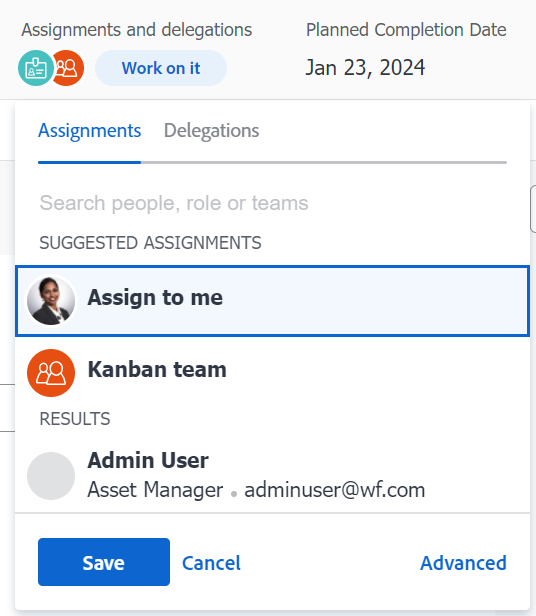
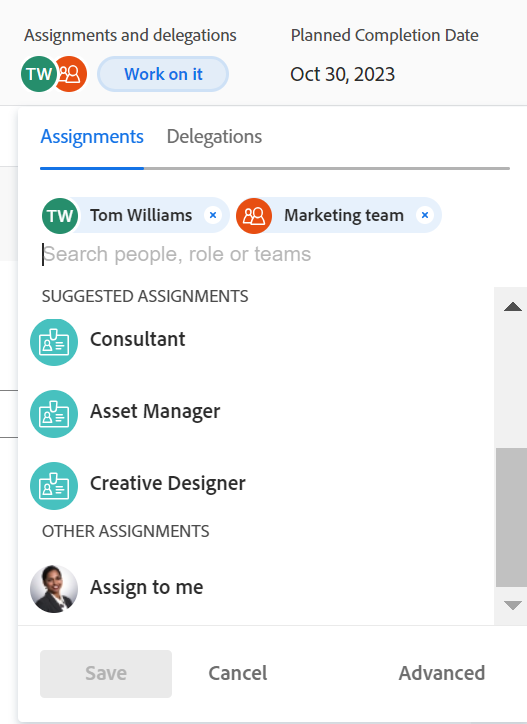
commit-aw-13-feb

diff --git a/help/quicksilver/manage-work/tasks/assign-tasks/make-smart-assignments.md b/help/quicksilver/manage-work/tasks/assign-tasks/make-smart-assignments.md
@@ -2,14 +2,14 @@
 product-area: projects;user-management
 navigation-topic: assign-tasks
 title: Make smart assignments
-description: You can use smart assignments to identify who the best user is to complete the work. Smart assignments are suggestions for users that Adobe Workfront presents to you when you assign work items to resources based on an algorithm that determines the most appropriate resource for the job. For information about smart assignments, see Smart assignments overview.
+description: You can use smart assignments to identify who the best user is to complete the work. Smart assignments are suggestions for users, roles, or teams that Adobe Workfront presents to you when you assign work items to resources based on an algorithm that determines the most appropriate resource for the job. For information about smart assignments, see Smart assignments overview.
 author: Alina
 feature: Work Management
 exl-id: 073a3234-3156-4b4f-a3e1-dbb32d61068a
 ---
 # Make smart assignments
 
-<!--update "Results" to "Other assignments" with Prod-->
+<!--Audited: 02/2024-->
 
 <span class="preview">The highlighted information on this page refers to functionality not yet generally available. It is available only in the Preview environment for all customers.</span>   
   
@@ -17,10 +17,11 @@ exl-id: 073a3234-3156-4b4f-a3e1-dbb32d61068a
 
 You can use smart assignments to identify who the best user is to complete the work. 
 
-Smart assignments are suggestions for users that Adobe Workfront presents to you when you assign work items to resources based on an algorithm that determines the most appropriate resource for the job.
+Smart assignments are suggestions for users, roles, or teams that Adobe Workfront presents to you when you assign work items to resources. Workfront bases its suggestions on an algorithm that determines the most appropriate resource for the job.
 
 <span class="preview">There are two separate algorithms in Workfront for tasks and issues. </span>
-For information about smart assignments, see [Smart assignments overview](../../../manage-work/tasks/assign-tasks/smart-assignments.md).
+
+For more information about the criteria used in determining smart assignments, see [Smart assignments overview](../../../manage-work/tasks/assign-tasks/smart-assignments.md).
 
 ## Access requirements
 
@@ -31,7 +32,7 @@ You must have the following access to perform the steps in this article:
  <col> 
  <tbody> 
   <tr> 
-   <td role="rowheader">Adobe Workfront plan*</td> 
+   <td role="rowheader">Adobe Workfront plan</td> 
    <td> <p>Any</p> </td> 
   </tr> 
   <tr> 
@@ -41,19 +42,17 @@ You must have the following access to perform the steps in this article:
       <p>Current: Work or higher</p> </td> 
   </tr> 
   <tr> 
-   <td role="rowheader">Access level configurations*</td> 
-   <td> <p>Edit access to Tasks and Issues</p> <p>View or higher access to&nbsp;Projects</p> <p><b>NOTE</b>
-   
-   If you still don't have access, ask your Workfront administrator if they set additional restrictions in your access level. For information on how a Workfront administrator can modify your access level, see <a href="../../../administration-and-setup/add-users/configure-and-grant-access/create-modify-access-levels.md" class="MCXref xref">Create or modify custom access levels</a>.</p> </td> 
+   <td role="rowheader">Access level configurations</td> 
+   <td> <p>Edit access to Tasks and Issues</p> <p>View or higher access to Projects</p>  </td> 
   </tr> 
   <tr> 
    <td role="rowheader">Object permissions</td> 
-   <td> <p>Contribute or higher permissions with the ability to make assignments on tasks and issues</p> <p>For information on requesting additional access, see <a href="../../../workfront-basics/grant-and-request-access-to-objects/request-access.md" class="MCXref xref">Request access to objects </a>.</p> </td> 
+   <td> <p>Contribute or higher permissions with the ability to make assignments on tasks and issues</p> </td> 
   </tr> 
  </tbody> 
 </table>
 
-&#42;To find out what plan, license type, or access you have, contact your Workfront administrator.
+*To find out what plan, license type, or access you have, contact your Workfront administrator. For more information, see [Access requirements in Workfront documentation](/help/quicksilver/administration-and-setup/add-users/access-levels-and-object-permissions/access-level-requirements-in-documentation.md). 
 
 ## Make smart assignments
 
@@ -64,6 +63,7 @@ Smart assignments are available in most locations where you can make assignments
    * A task or issue list or report 
    * A task or issue header
    * The task or issue Summary panel
+   * <span class="preview">A New Task or New Issue box, as you add a new task or issue to a project</span>
    * The Assignments field for an item listed in the Home area
    * A task or issue in the Workload Balancer
 
@@ -82,11 +82,11 @@ Smart assignments are available in most locations where you can make assignments
    For tasks, the smart assignments display in the following sections, depending on which phase of the algorithm's calculation identified the assignments: 
 
    * **Suggested assignments**: Assignments identified in the first phase of the task smart assignment's algorithm calculation. 
-   * <span class="preview">**Results**: Assignments identified in the second phase of the task smart assignment's algorithm calculation. This section is not available for issues. </span> <!--replace this with the new UI: "Other assignments"-->
+   * <span class="preview">**Other assignments**: Assignments identified in the second phase of the task smart assignment's algorithm calculation. This section is not available for issues. </span> <!--replace this with the new UI: "Other assignments"-->
 
    ![](assets/smart-assignments-task-list.png)
    
-   For more information, see [Smart assignments overview](../../../manage-work/tasks/assign-tasks/smart-assignments.md) . 
+   For more information, see [Smart assignments overview](../../../manage-work/tasks/assign-tasks/smart-assignments.md).
 
 1. Select the user in the recommendations list by clicking their name. 
 
@@ -96,7 +96,7 @@ Smart assignments are available in most locations where you can make assignments
    >
    >If there are no suggestions, the suggestion list does not open.
 
-1. (Optional) If you do not want to use one of the recommended users from the smart assignments list, start typing the name of the desired user and select the name when it appears in the list.
+1. (Optional) If you do not want to use one of the recommended users from the smart assignments list, start typing the name of the desired resource and select the name when it appears in the list.
 1. Click **Enter** to make the assignment.
 
    The selected user is assigned to the task or issue.

diff --git a/help/quicksilver/manage-work/tasks/assign-tasks/smart-assignments.md b/help/quicksilver/manage-work/tasks/assign-tasks/smart-assignments.md
@@ -57,7 +57,11 @@ You can view smart assignments in the following areas where you can assign tasks
 
   ![](assets/smart-assignments-summary-panel-nwe-350x332.png)
 
-* The Assignments field for an item listed in the Home area in the Assignments area, when you open a task or issue
+* <span class="preview">The Assignments field in the New Task box, when adding a task to a project</span>
+
+  <span class="preview">![](assets/smart-assignments-new-task-modal.png)</span>
+
+* The Assignments field for an item listed in the Home area, when you open a task or issue
 
   ![](assets/smart-assignments-in-home-nwe-350x216.png)
 
@@ -122,7 +126,7 @@ If the first step of task smart assignments has found no matches, Workfront calc
 
 For more information, see the section [Smart assignments criteria for tasks and issues](#smart-assignments-criteria-for-tasks-and-issues) in this article. 
 
-Assignments identified in this phase are listed in the **Results** section of the Assignments field. <!--update this to "Other assignments"-->
+Assignments identified in this phase are listed in the **Other assignments** section of the Assignments field for tasks. <!--update this to "Other assignments"-->
 
 ### Smart assignments criteria for tasks and issues 
 
